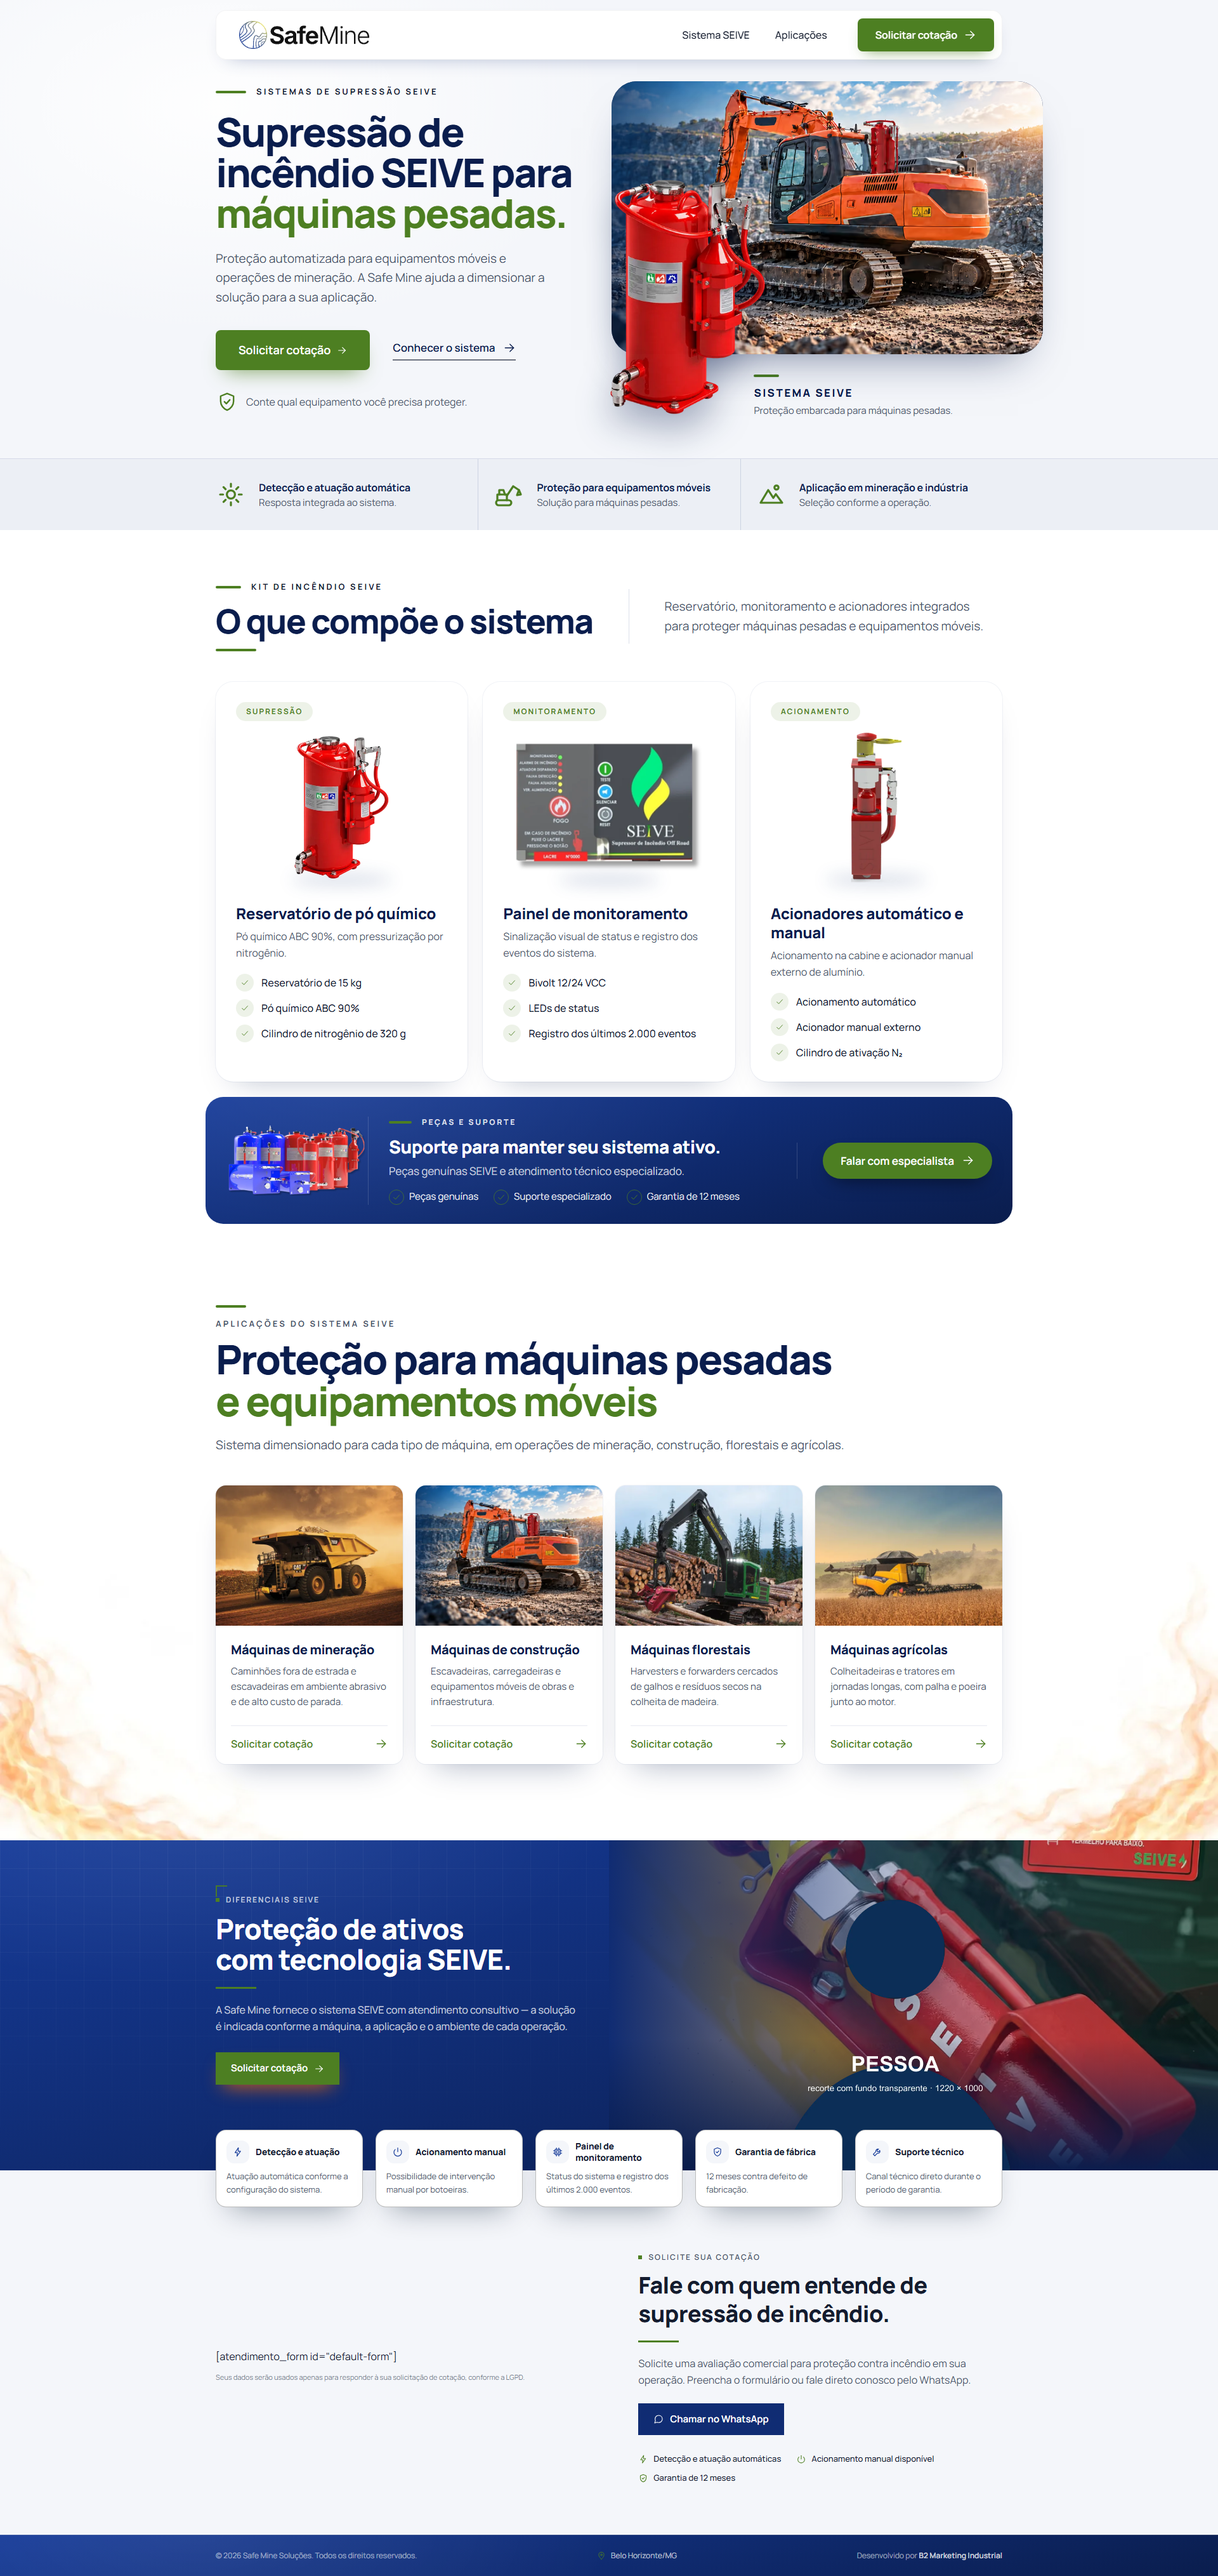
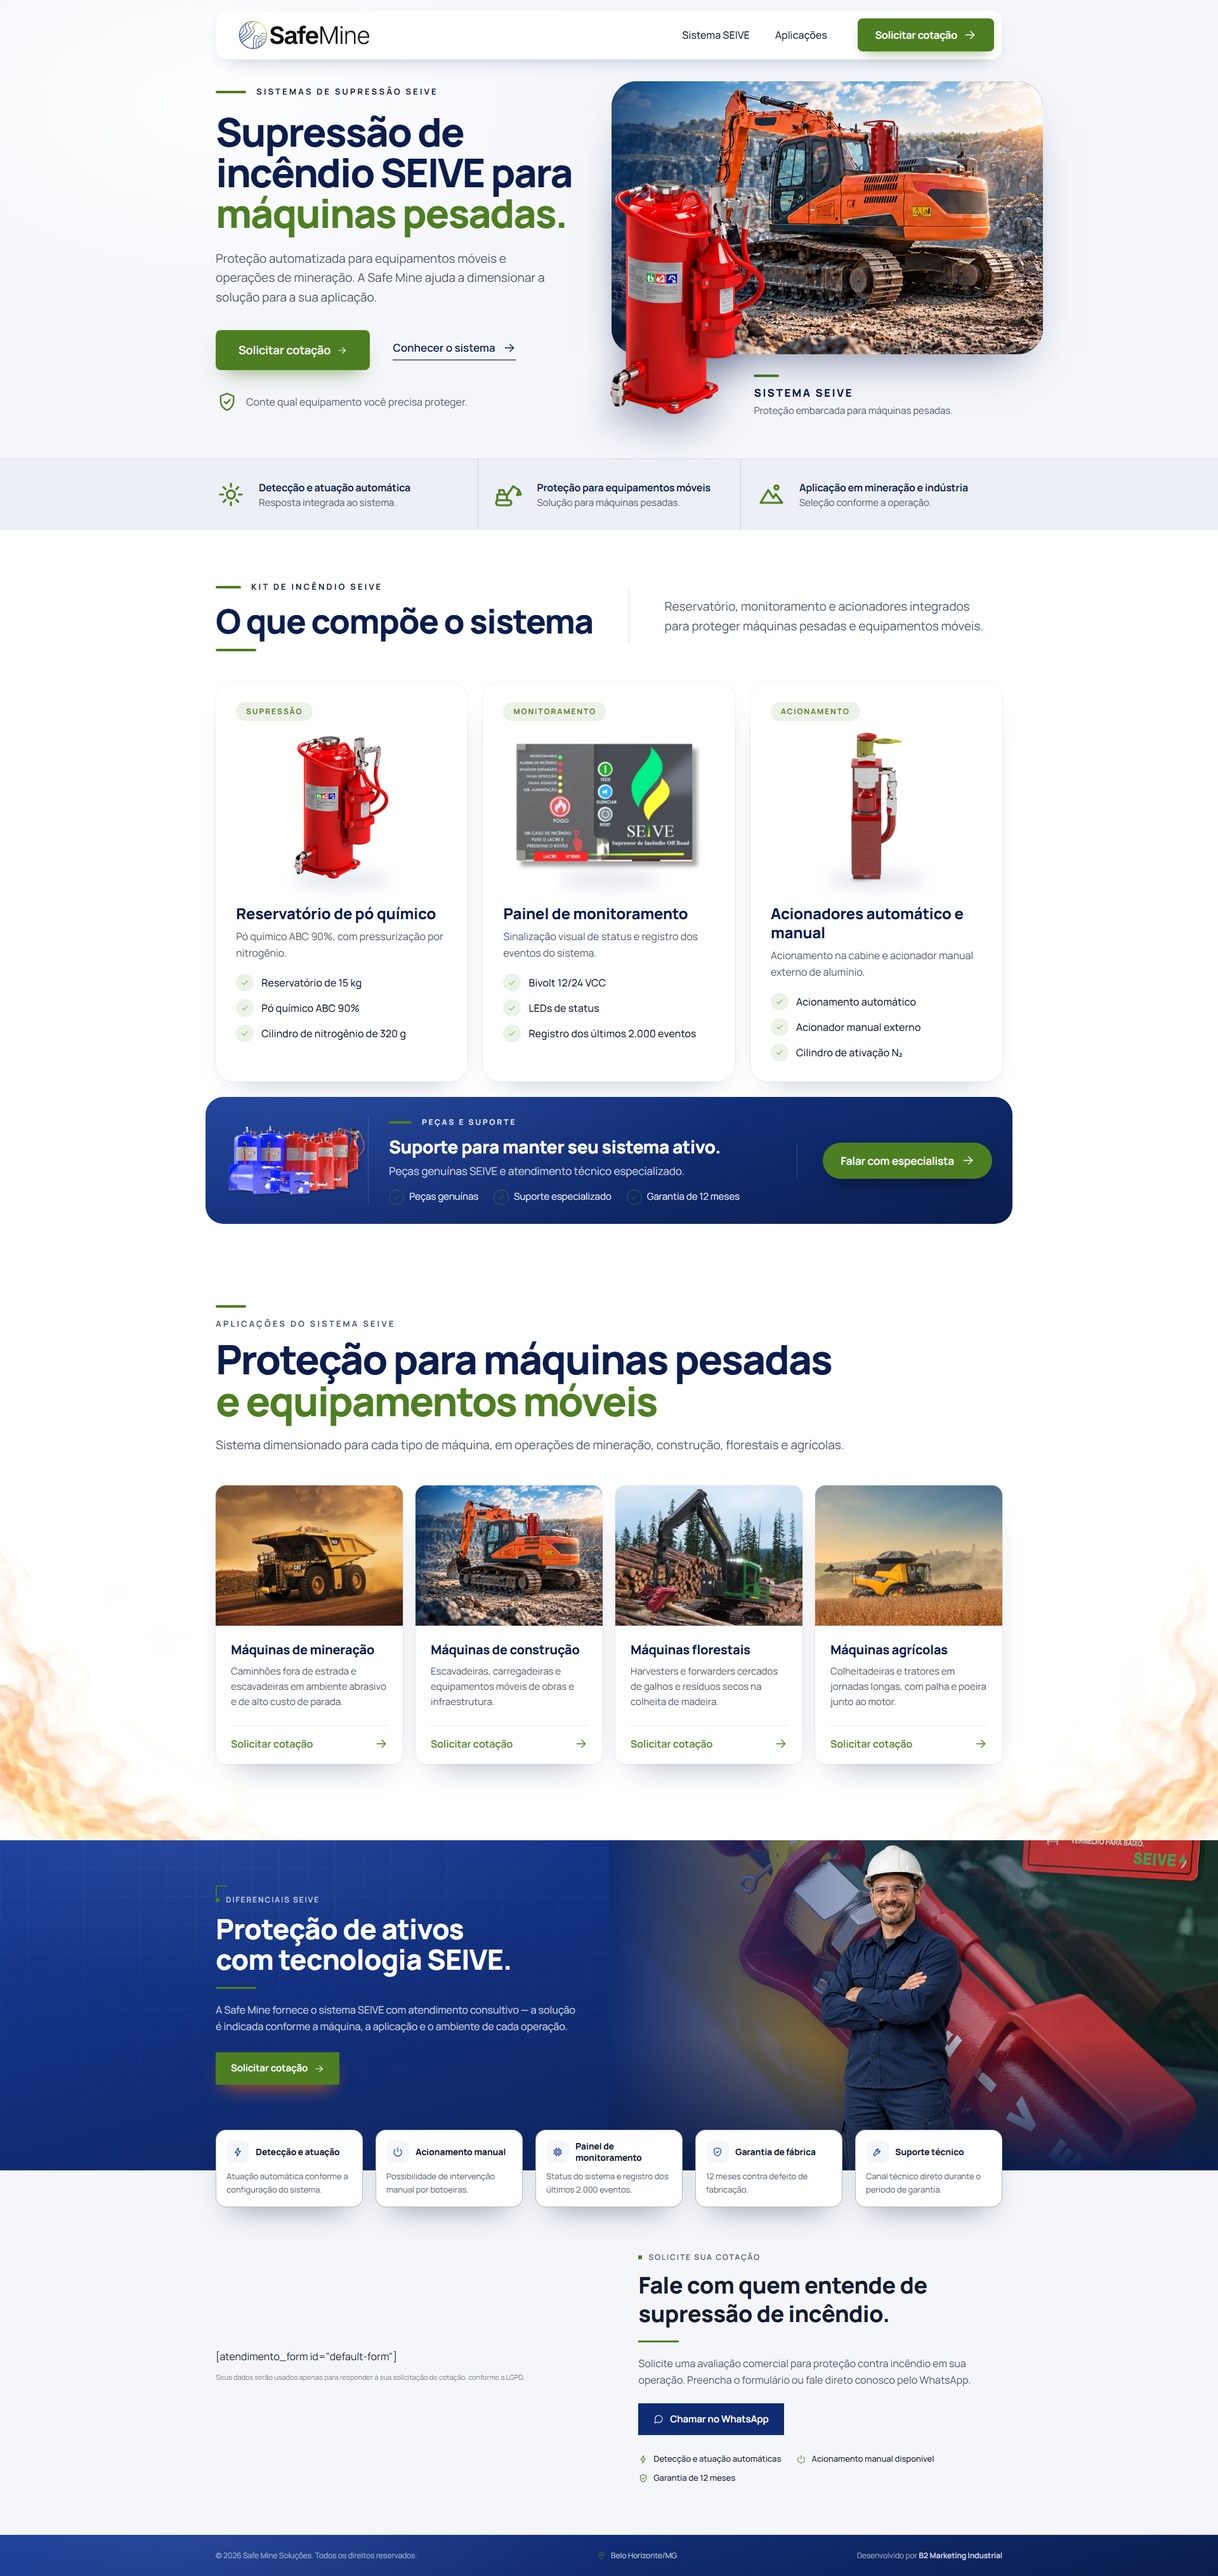
feat: foto do técnico nos diferenciais — último asset pendente
Recorte enviado pelo cliente enquadrado do capacete ao quadril, no slot
1220×1000 com fundo transparente. assets.pendentes ficou vazio e o
npm run verify passa inteiro (0 erros, 1 aviso: foto florestal com 899 px).

Changed region(s): [[0.6562, 0.7141, 0.8125, 0.8383]]

diff --git a/docs/FICHA-LP.md b/docs/FICHA-LP.md
@@ -403,7 +403,7 @@ blocos:
     falta: a oferta é um sistema de proteção, não consolidação de compras de itens diferentes
 
 assets:
-  pendentes: [diferenciais]
+  pendentes: []
 
 conflitos:
   - pede: núcleo do briefing de campanha com a SEIVE como marca (endereço em Contagem/MG e WhatsApp da SEIVE)
